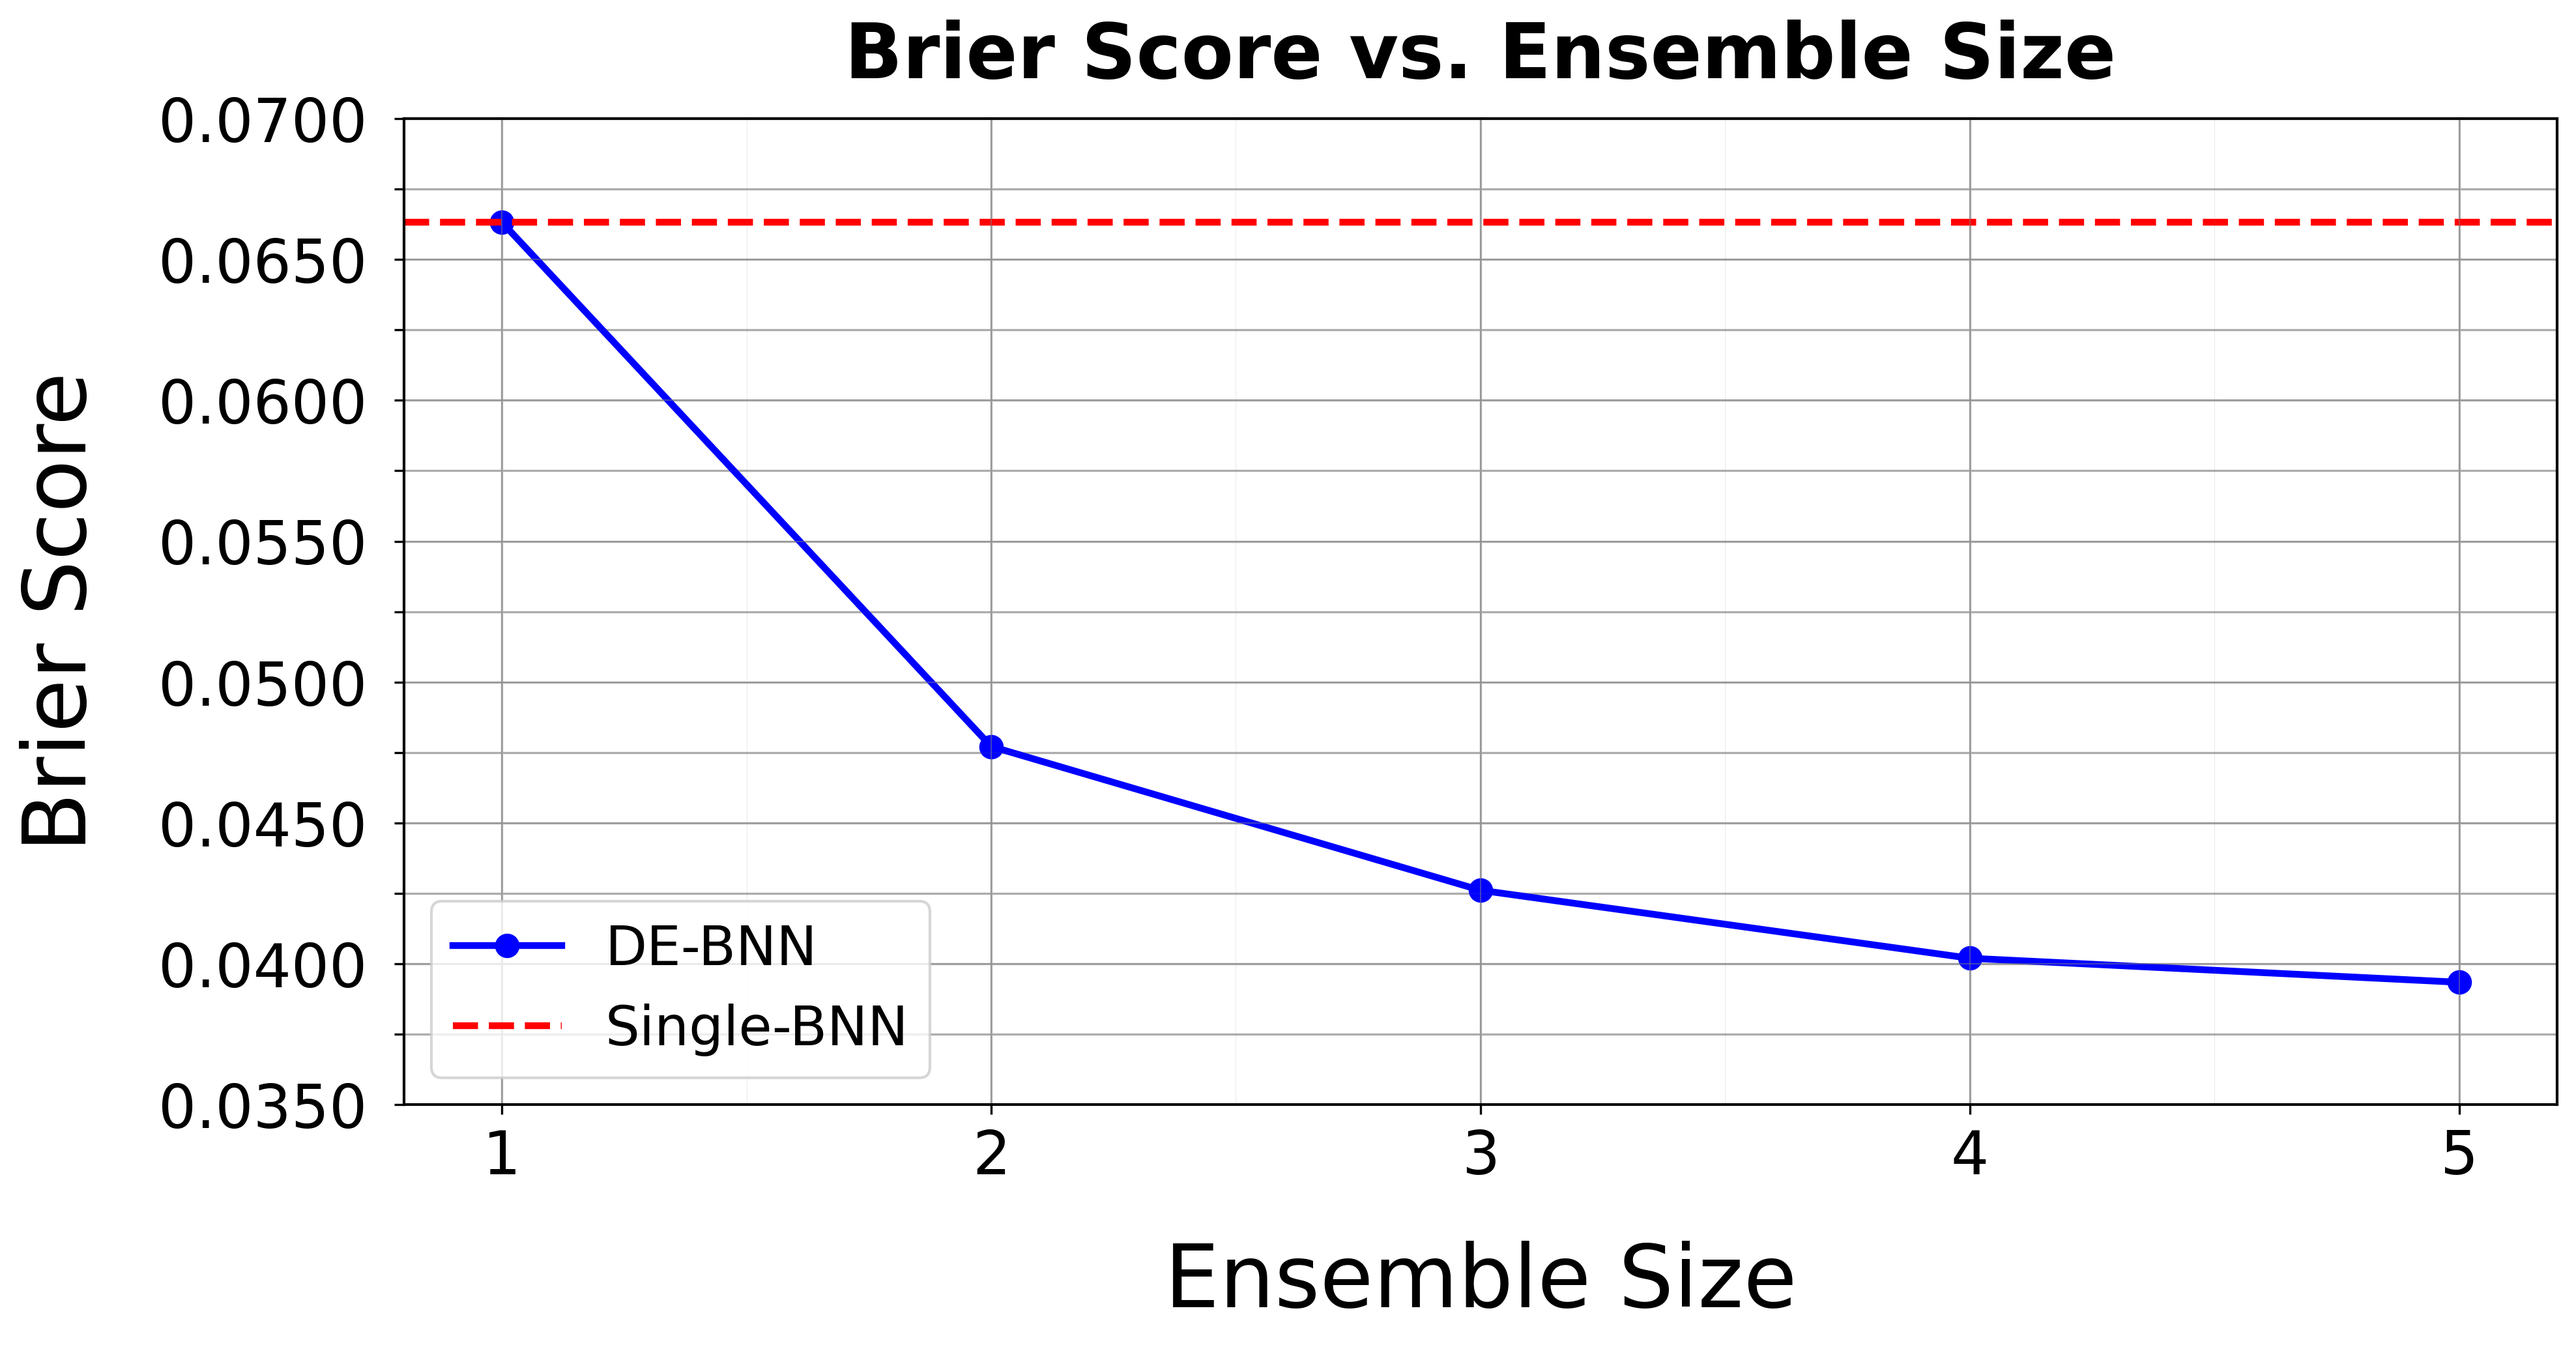
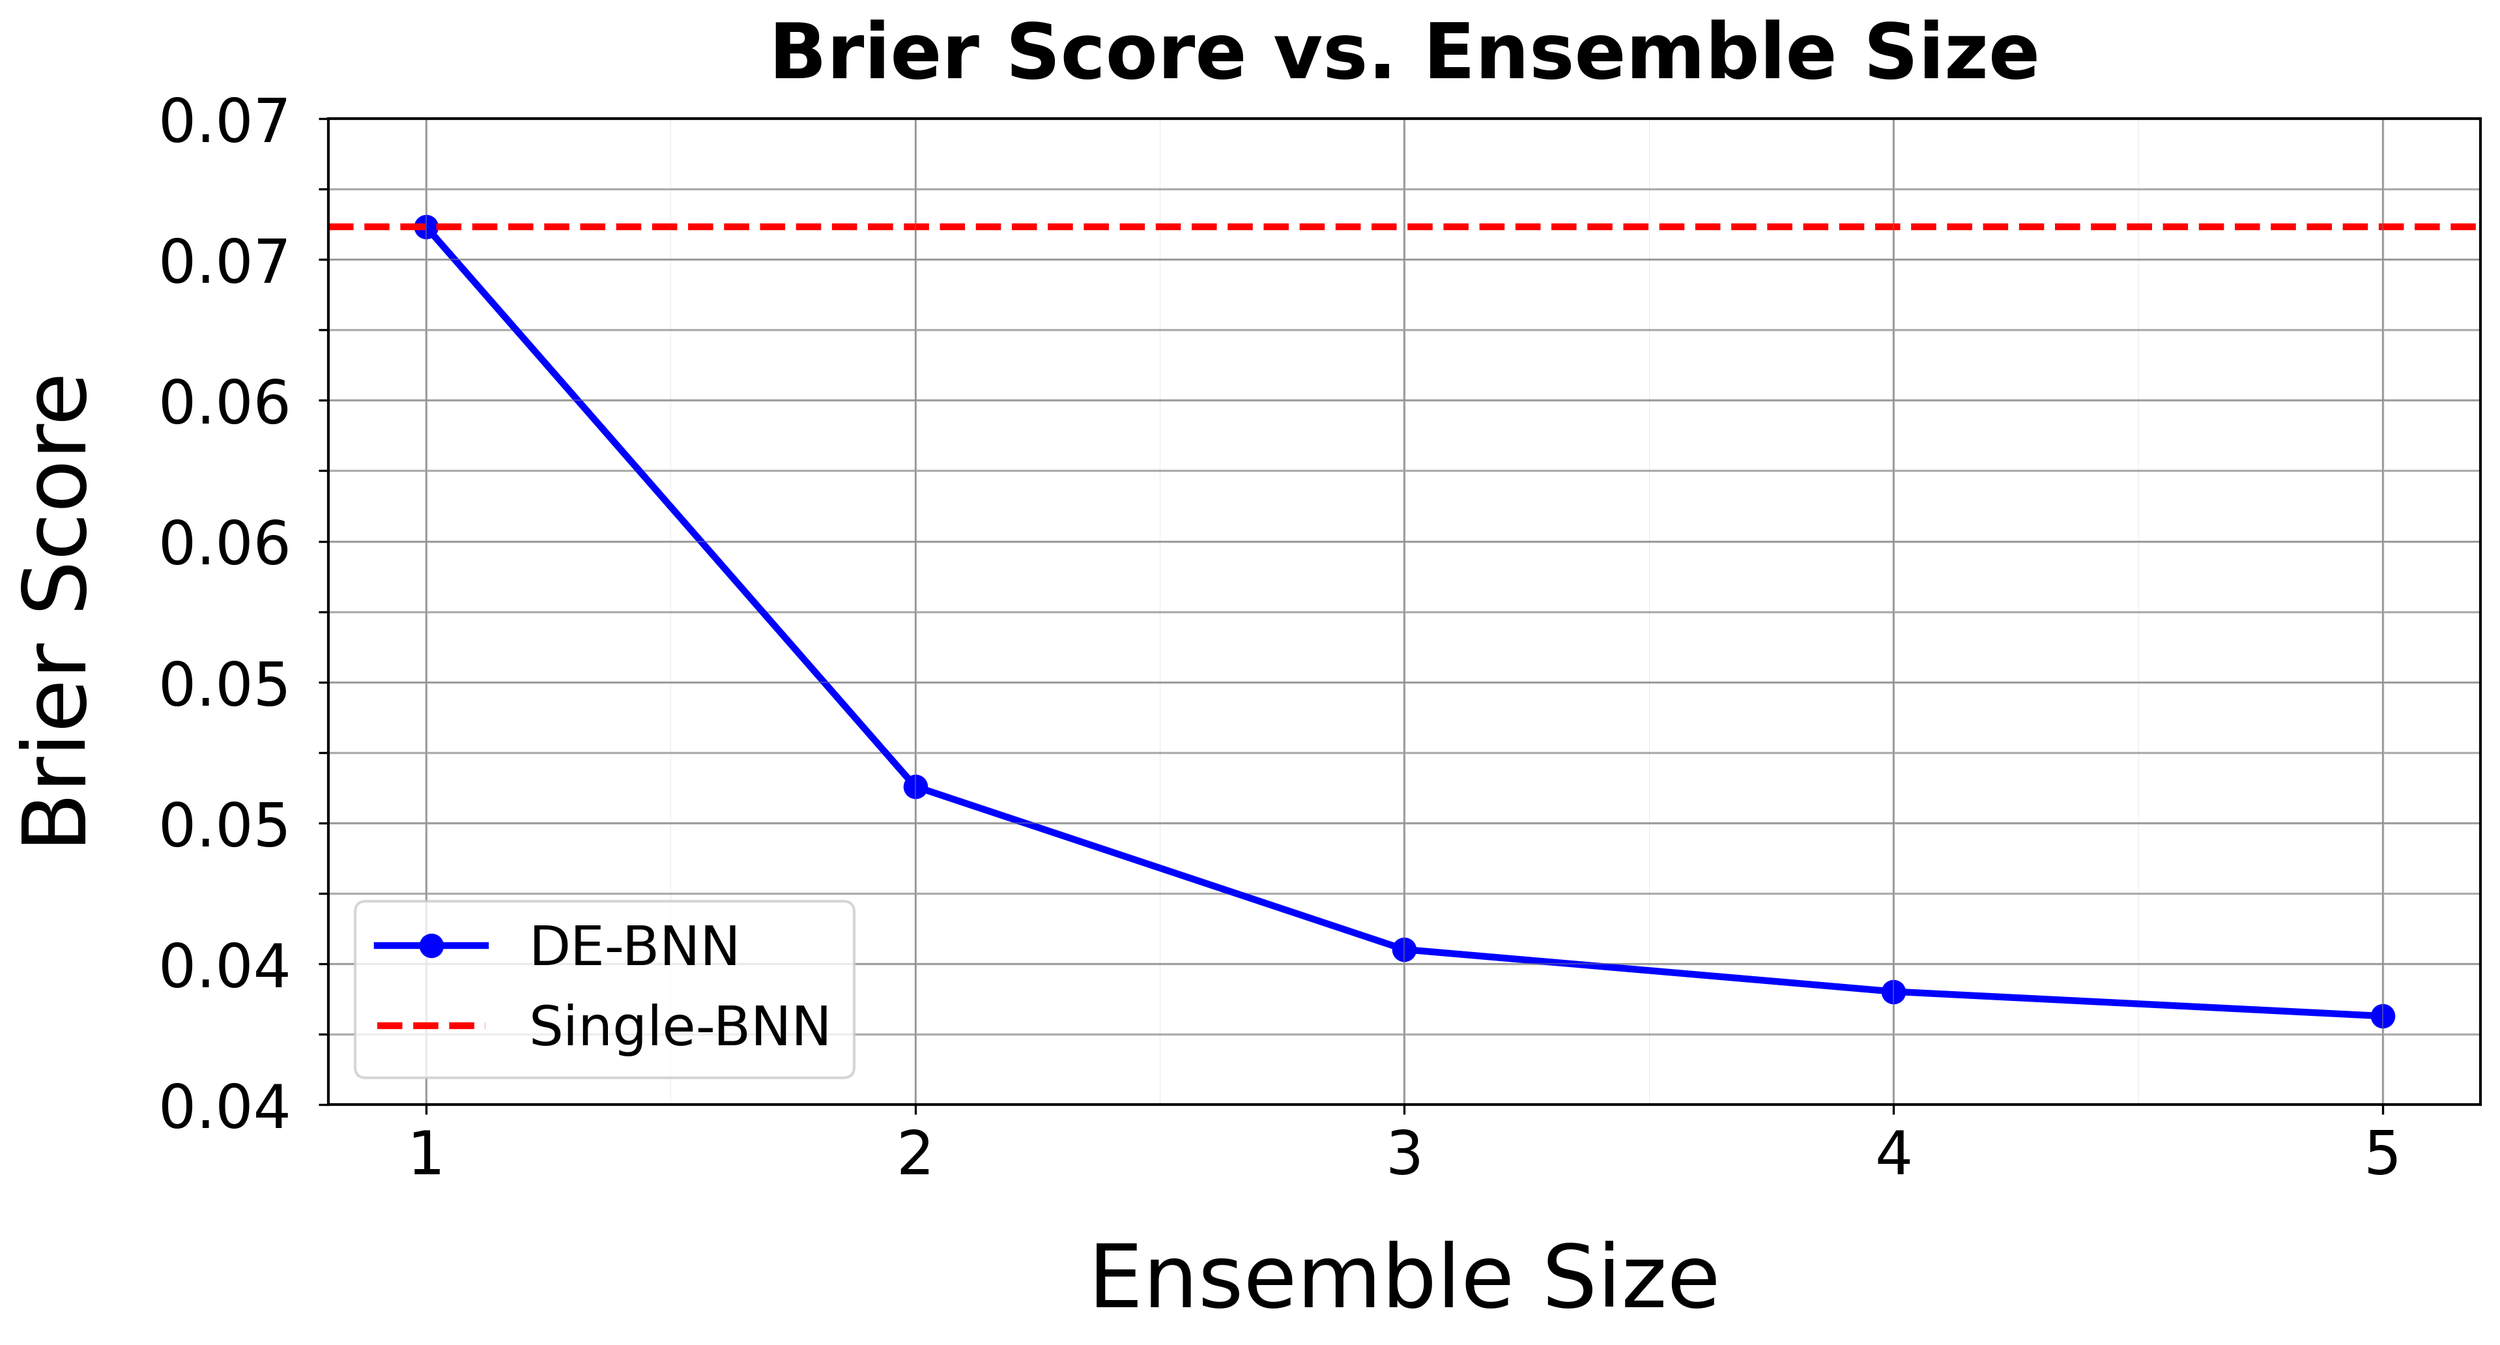
Plots

diff --git a/plots/Plots_main.py b/plots/Plots_main.py
@@ -98,8 +98,8 @@ def evaluate_model(y_true, y_proba, num_classes=10):
     }
 
 #%% Load MNIST or CIFAR-10 and apply preprocessing
-(x_train_full, y_train_full), (x_test, y_test) = tf.keras.datasets.cifar10.load_data()
-#(x_train_full, y_train_full), (x_test, y_test) = tf.keras.datasets.mnist.load_data()  # Uncomment if using MNIST
+#(x_train_full, y_train_full), (x_test, y_test) = tf.keras.datasets.cifar10.load_data()
+(x_train_full, y_train_full), (x_test, y_test) = tf.keras.datasets.mnist.load_data()  # Uncomment if using MNIST
 
 # Normalize pixel values
 x_train_full = x_train_full.astype("float32") / 255.0
@@ -123,17 +123,17 @@ y_test = y_test.flatten()
 x_train, x_val, y_train, y_val = train_test_split(x_train_full, y_train_full, test_size=0.2, random_state=seed)
 num_classes = len(np.unique(y_train_full))
 
-#ensemble = []
+ensemble = []
 """ensemble.append(load_bnn_model("Ensemble_Member_1", len_x_train=len(x_train_full)))
 ensemble.append(load_bnn_model("Ensemble_Member_2", len_x_train=len(x_train_full)))
 ensemble.append(load_bnn_model("Ensemble_Member_3", len_x_train=len(x_train_full)))
 ensemble.append(load_bnn_model("Ensemble_Member_4", len_x_train=len(x_train_full)))
 ensemble.append(load_bnn_model("Ensemble_Member_5", len_x_train=len(x_train_full)))"""
 
-"""ensemble = [
-    load_bnn_model(f"Ensemble_Member_{i+1}", len_x_train=len(x_train_full))
+ensemble = [
+    load_bnn_model(f"Ensemble_Member_{i+1}_MNIST", len_x_train=len(x_train_full))
     for i in range(5)
-]"""
+]
 
 """print("\nTraining Single-BNN:")
 single_bnn = ConvolutionalBNN(input_shape, num_classes, len(x_train))
@@ -159,7 +159,7 @@ print("Time elapsed:", time.time() - start2)"""
 
 
 #%% Train DE-BNN
-ensemble = train_deep_ensemble(x_train, y_train, x_val, y_val, input_shape, num_classes, n_models=5)
+# ensemble = train_deep_ensemble(x_train, y_train, x_val, y_val, input_shape, num_classes, n_models=5)
 
 
 #%% Evaluate both models
@@ -212,20 +212,33 @@ def plot_ensemble_metrics(ensemble, single, mnist=True):
     mnist : bool (default=True)
         If True, filenames end with "_MNIST.png", otherwise "_CIFAR10.png"
     """
+    import matplotlib.ticker as mtick
+
     ensemble_sizes = ensemble["Ensemble Size"].tolist()
     metric_columns = [col for col in ensemble.columns if col != "Ensemble Size"]
-
     suffix = "_MNIST.png" if mnist else "_CIFAR10.png"
 
     for metric_name in metric_columns:
         values = ensemble[metric_name].tolist()
+        single_value = single[metric_name]
+
+        is_percent_metric = metric_name == "Accuracy"  # ✅ Only Accuracy is shown in %
+        if is_percent_metric:
+            values = [v * 100 for v in values]
+            single_value *= 100
+
         fig, ax = plt.subplots(figsize=(12, 6))
         ax.plot(ensemble_sizes, values, marker='o', color='blue', label='DE-BNN', linewidth=2.5, markersize=8)
-        ax.axhline(y=single[metric_name], color='red', linestyle='--', label='Single-BNN', linewidth=2.5)
+        ax.axhline(y=single_value, color='red', linestyle='--', label='Single-BNN', linewidth=2.5)
         ax.set_xlabel("Ensemble Size")
-        ax.set_ylabel(metric_name)
+        ylabel = f"{metric_name} (%)" if is_percent_metric else metric_name
+        ax.set_ylabel(ylabel)
         ax.set_title(f"{metric_name} vs. Ensemble Size")
         ax.set_xticks(ensemble_sizes)
+
+        if is_percent_metric:
+            ax.yaxis.set_major_formatter(mtick.FormatStrFormatter('%.2f%%'))
+
         ax.legend(fontsize=20)
         ax.grid(True)
         fig.tight_layout()
@@ -237,10 +250,13 @@ def plot_ensemble_metrics(ensemble, single, mnist=True):
 
         plt.show()
 
-plot_ensemble_metrics(df_ensemble_metrics, df_ensemble_metrics.iloc[0,:], mnist=False)
 
-save_bnn_model(ensemble[0], "Ensemble_Member_1_CIFAR10")
+
+
+plot_ensemble_metrics(df_ensemble_metrics, df_ensemble_metrics.iloc[0,:], mnist=True)
+
+"""save_bnn_model(ensemble[0], "Ensemble_Member_1_CIFAR10")
 save_bnn_model(ensemble[1], "Ensemble_Member_2_CIFAR10")
 save_bnn_model(ensemble[2], "Ensemble_Member_3_CIFAR10")
 save_bnn_model(ensemble[3], "Ensemble_Member_4_CIFAR10")
-save_bnn_model(ensemble[4], "Ensemble_Member_5_CIFAR10")
+save_bnn_model(ensemble[4], "Ensemble_Member_5_CIFAR10")"""

diff --git a/plots/Custom_plot_style.py b/plots/Custom_plot_style.py
@@ -37,7 +37,7 @@ def apply_custom_theme(ax):
 # Zeige nur jede zweite y-Beschriftung (aber behalte alle Grid-Linien!)
  all_yticks = ax.get_yticks()
  ax.set_yticklabels([
-     f"{tick:.4f}" if i % 2 == 0 else ""
+     f"{tick:.2f}" if i % 2 == 0 else ""
      for i, tick in enumerate(all_yticks)
  ])
 
